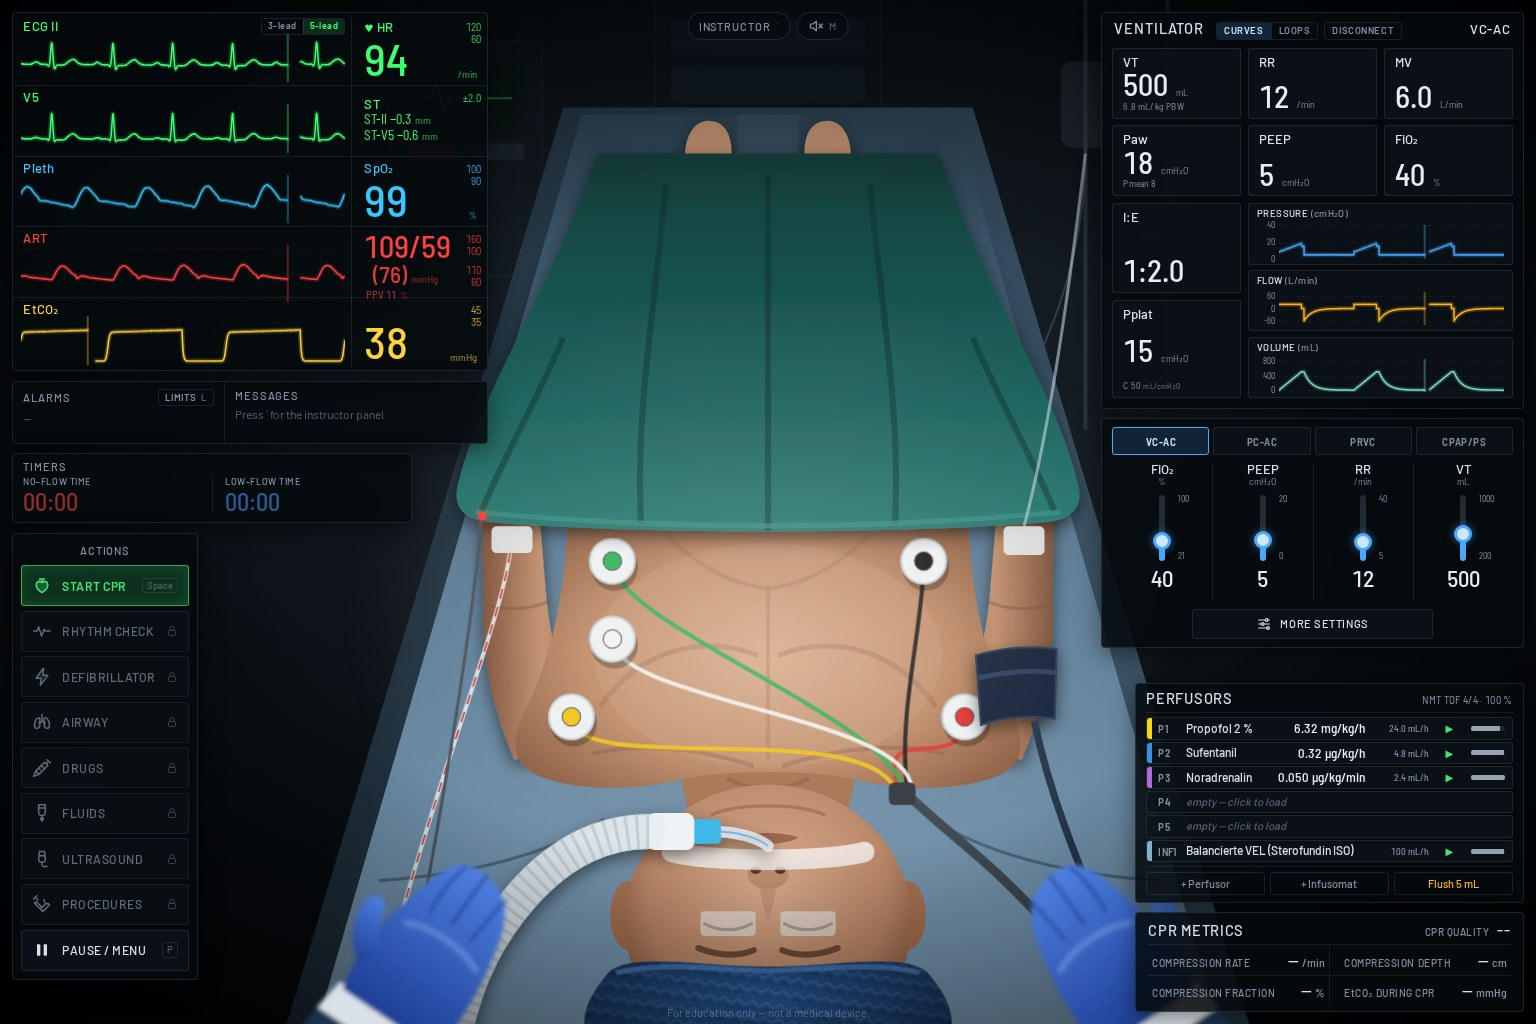
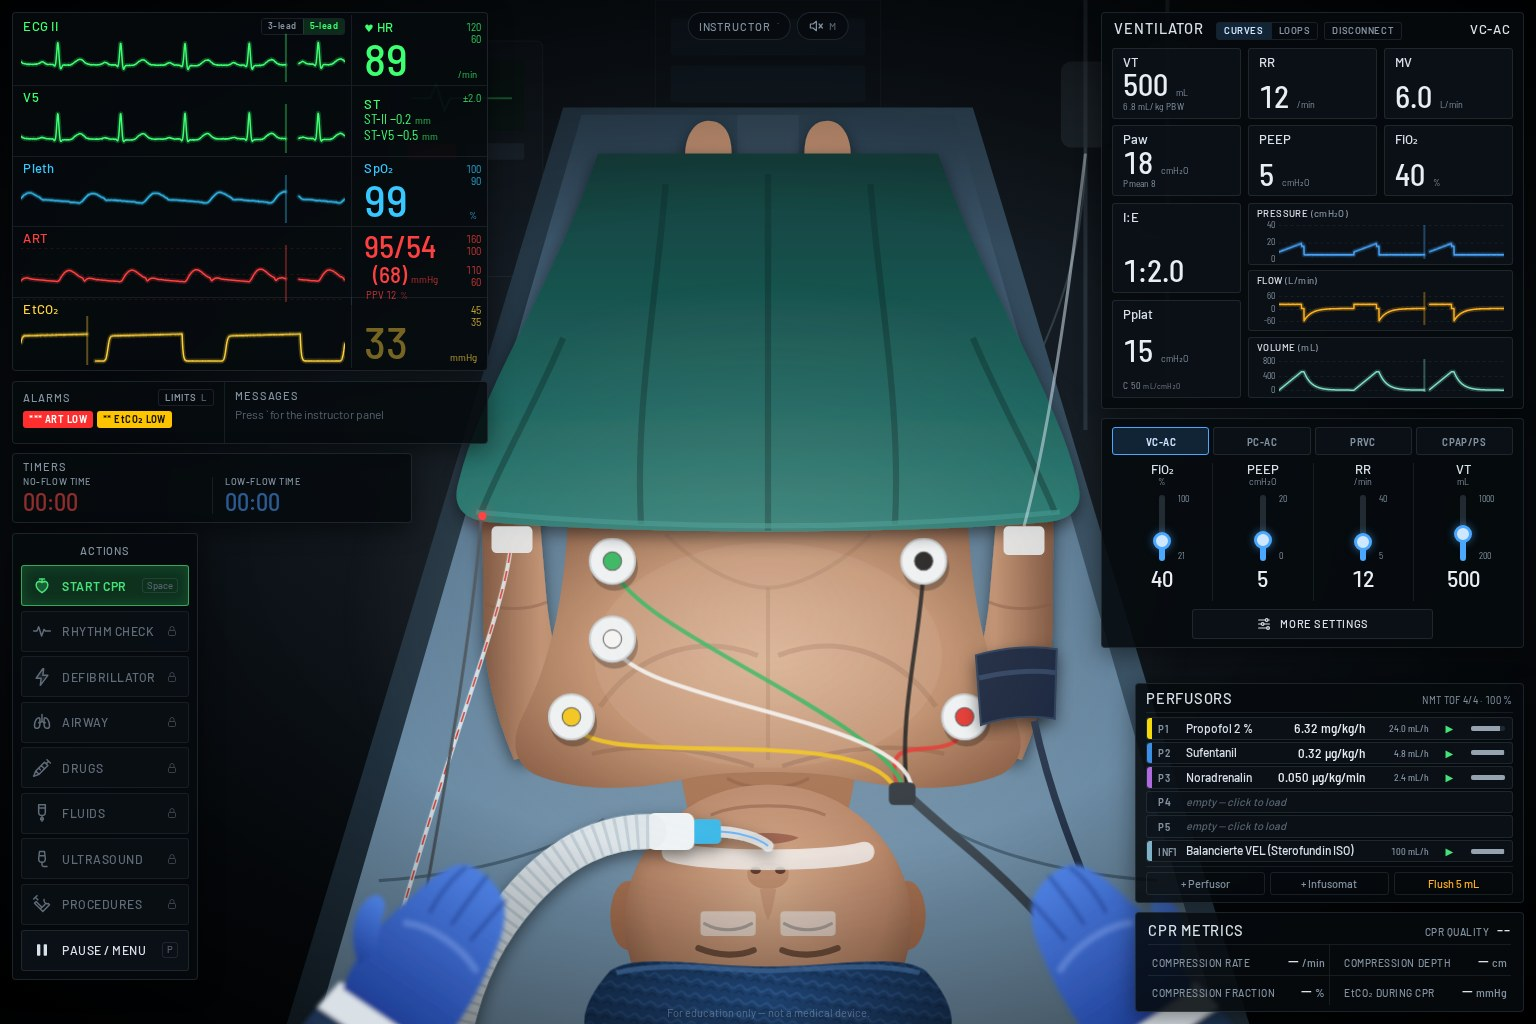
Make propofol boluses act more strongly in hypovolaemia and in the elderly
Age becomes a covariate of the haemodynamic propofol effects and of reflex
compensation, settable live by the instructor (SET_PATIENT_AGE, slider in the
heart-lung panel). Propofol sympatholysis is sigmoidal and suppresses the tonic
volume-reflex outflow more than the phasic baroreflex, its effect is weighted to
venodilation, and the critical closing pressure follows vascular tone. 100 mg
under TIVA now lowers mean ART by ~24 % at 58 y, ~39 % when hypovolaemic and
~45 % at 80 y hypovolaemic (collapse at volume status 0.5 if untreated).

Claude-Session: https://claude.ai/code/session_01VvDhrbZNjq1jLKeWpgn4kZ

diff --git a/src/sim/pharmacology/pd.ts b/src/sim/pharmacology/pd.ts
@@ -15,15 +15,21 @@ export const PD = {
     hypnosisCe50: 3.4,
     hypnosisGamma: 3,
     respCe50: 3,
-    svrMax: 0.9,
+    svrMax: 0.6,
     svrCe50: 8,
-    venousMax: 0.8,
+    venousMax: 1.4,
     venousCe50: 8,
     inotropyMax: 0.3,
     inotropyCe50: 10,
-    baroMax: 0.6,
-    baroCe50: 4,
+    // SIM-ASSUMPTION: sympatholysis is sigmoidal (Ce50 6 µg/mL, γ 3): modest at maintenance concentrations, strong at bolus
+    // peaks — so a patient whose blood pressure depends on sympathetic tone (hypovolaemia) loses it on a bolus.
+    baroMax: 0.95,
+    baroCe50: 6,
+    baroGamma: 3,
   },
+  // SIM-ASSUMPTION: age sensitivity of the haemodynamic propofol effects — Ce50 × (1 − 0.01 · (age − 60)),
+  // limited to 0.6–1.3 (80 y: 0.8, 35 y: 1.25); elderly patients need about a third less propofol.
+  ageSensitivity: { referenceAge: 60, perYear: 0.01, min: 0.6, max: 1.3 },
   // SIM-ASSUMPTION: opioid–hypnotic interaction on hypnosis (response surface, educational):
   // U = Up + 0.4·Uo + 0.5·Up·Uo with Up = Ce/3.4 µg/mL and Uo = sufentanil-equivalent / 1 ng/mL.
   hypnosisInteraction: { opioidWeight: 0.4, synergy: 0.5, opioidC50: 1 },
@@ -95,8 +101,15 @@ interface Haemodynamics {
   baroreflex: number;
 }
 
-function haemodynamics(e: Exposures, opioid: number): Haemodynamics {
-  const p = e.propofol ?? 0;
+/** Ce50 multiplier for the haemodynamic propofol effects at a given age (1 at 60 years). */
+export function propofolAgeFactor(ageYears: number): number {
+  const a = PD.ageSensitivity;
+  return Math.min(a.max, Math.max(a.min, 1 - a.perYear * (ageYears - a.referenceAge)));
+}
+
+function haemodynamics(e: Exposures, opioid: number, ageYears: number): Haemodynamics {
+  // Age-scaled propofol concentration (equivalent to scaling every haemodynamic Ce50).
+  const p = (e.propofol ?? 0) / propofolAgeFactor(ageYears);
   const na = e.noradrenaline ?? 0;
   const ad = e.adrenaline ?? 0;
   const dob = e.dobutamine ?? 0;
@@ -133,7 +146,8 @@ function haemodynamics(e: Exposures, opioid: number): Haemodynamics {
     (1 + emax(ad, A.chronoMax, A.chronoEc50)) *
     (1 + emax(dob, D.chronoMax, D.chronoEc50)) *
     (1 + emax(sal, S.chronoMax, S.chronoEc50));
-  const baroreflex = (1 - emax(p, P.baroMax, P.baroCe50)) * (1 - emax(opioid, 0.2, 0.5));
+  const baroreflex =
+    (1 - P.baroMax * hill(p, P.baroCe50, P.baroGamma)) * (1 - emax(opioid, 0.2, 0.5));
   return { svr, venousTone, inotropy, chronotropy, baroreflex };
 }
 
@@ -151,11 +165,16 @@ export function opioidEffect(e: Exposures, weightKg: number): number {
  * SIM-ASSUMPTION: relative haemodynamics keep the calibrated baseline while stopping or changing an infusion
  * moves the patient away from it.
  */
-export function drugEffects(e: Exposures, reference: Exposures, weightKg: number): DrugEffects {
+export function drugEffects(
+  e: Exposures,
+  reference: Exposures,
+  weightKg: number,
+  ageYears = 60,
+): DrugEffects {
   const opioid = opioidEffect(e, weightKg);
   const opioidRef = opioidEffect(reference, weightKg);
-  const now = haemodynamics(e, opioid);
-  const ref = haemodynamics(reference, opioidRef);
+  const now = haemodynamics(e, opioid, ageYears);
+  const ref = haemodynamics(reference, opioidRef, ageYears);
 
   const P = PD.propofol;
   const hi = PD.hypnosisInteraction;

diff --git a/src/sim/__tests__/pharmacology.test.ts b/src/sim/__tests__/pharmacology.test.ts
@@ -1,5 +1,6 @@
 import { describe, expect, it } from 'vitest';
 import { erc2025 } from '../../content/guidelines/erc2025';
+import { baselinePatient } from '../../content/scenarios';
 import { SimulationEngine } from '../engine/SimulationEngine';
 import { dosingWeight, idealBodyWeight } from '../pharmacology/bodySize';
 import { lineAmount } from '../pharmacology/delivery';
@@ -601,5 +602,44 @@ describe('soft limits, top-up boluses and the haemodynamic response', () => {
     e.runFor(600);
     expect(snap(e).patient.cardio.meanArterialPressure).toBeGreaterThan(0.95 * map0);
     expect(Math.abs(snap(e).devices.monitor.numerics.stII ?? 0)).toBeLessThan(0.15);
+  });
+});
+
+describe('propofol bolus: age and volume status', () => {
+  /** Largest relative fall of the displayed mean ART after 100 mg propofol under TIVA. */
+  const bolusDrop = (ageYears: number, preloadReserve: number) => {
+    const e = new SimulationEngine({
+      scenario: { ...baselinePatient, patient: { ...baselinePatient.patient, ageYears } },
+      guidelines: erc2025,
+    });
+    cmd(e, { type: 'SET_RESERVES', reserves: { preloadReserve } }, 'instructor');
+    e.runFor(180);
+    const before = snap(e).devices.monitor.numerics.artMean ?? 0;
+    cmd(e, { type: 'PUMP_BOLUS', pumpId: 'P1', volumeMl: 5, durationS: 10 });
+    let lowest = before;
+    for (let i = 0; i < 30; i++) {
+      e.runFor(10);
+      lowest = Math.min(lowest, snap(e).devices.monitor.numerics.artMean ?? lowest);
+    }
+    return (before - lowest) / before;
+  };
+
+  it('the same bolus lowers BP much more in hypovolaemia and in the elderly', () => {
+    const young = bolusDrop(35, 1);
+    const hypo = bolusDrop(35, 0.6);
+    const old = bolusDrop(80, 1);
+    const oldHypo = bolusDrop(80, 0.6);
+    expect(young).toBeGreaterThan(0.1);
+    expect(hypo).toBeGreaterThan(young + 0.1);
+    expect(old).toBeGreaterThan(young + 0.05);
+    expect(oldHypo).toBeGreaterThan(Math.max(hypo, old) + 0.08);
+  });
+
+  it('the instructor can change the age; PK and drug sensitivity follow', () => {
+    const e = createEngine();
+    cmd(e, { type: 'SET_PATIENT_AGE', ageYears: 85 }, 'instructor');
+    expect(snap(e).patient.demographics.ageYears).toBe(85);
+    cmd(e, { type: 'SET_PATIENT_AGE', ageYears: 5 }, 'instructor'); // outside 18–100: ignored
+    expect(snap(e).patient.demographics.ageYears).toBe(85);
   });
 });

diff --git a/src/sim/physiology/HeartLungModel.ts b/src/sim/physiology/HeartLungModel.ts
@@ -5,6 +5,14 @@ import { approach, clamp } from './shapes';
 
 /** mL O2/dL — arterial O2 content of the baseline patient (reference for coronary O2 supply) */
 const REFERENCE_CAO2 = 19;
+/**
+ * SIM-ASSUMPTION: reflex sympathetic compensation declines with age (baroreflex sensitivity, β-receptor response):
+ * × (1 − 0.012 · (age − 60)), limited to 0.5–1.25 — 80 y: 0.76, 90 y: 0.64, 35 y: 1.25.
+ */
+export function ageSympatheticFactor(ageYears: number): number {
+  return clamp(1 - 0.012 * (ageYears - 60), 0.5, 1.25);
+}
+
 /** mmHg — MAP below which the arterial baroreflex starts to raise sympathetic tone */
 const BARO_SET_POINT_MMHG = 82;
 /**
@@ -205,12 +213,17 @@ export class HeartLungModel {
     // blood pressure brings a compensatory tachycardia (blunted, not abolished, by the anaesthetic).
     const setPointStress =
       0.6 * clamp((BARO_SET_POINT_MMHG - cardio.meanArterialPressure) / 25, 0, 1);
+    // SIM-ASSUMPTION: the tonic outflow driven by the low-pressure (volume) reflex is suppressed more by
+    // anaesthetics (baroreflex factor squared) than the phasic arterial baroreflex response — the hypovolaemic
+    // patient loses the tone that held the blood pressure, while a normovolaemic patient keeps a reflex tachycardia.
     const stress =
       clamp(
-        hypoxicStress + 0.4 * co2Stress + 0.8 * pressureStress + setPointStress + volumeStress,
+        (hypoxicStress + 0.4 * co2Stress + 0.8 * pressureStress + setPointStress) *
+          drugs.baroreflex +
+          volumeStress * drugs.baroreflex ** 2,
         0,
         1.5,
-      ) * drugs.baroreflex;
+      ) * ageSympatheticFactor(patient.demographics.ageYears);
     const highPressure = clamp((cardio.meanArterialPressure - 105) / 40, 0, 1) * drugs.baroreflex;
     const debtFraction = clamp(
       (hl.oxygenDebt - k.bradycardiaDebtS) / (k.arrestDebtS - k.bradycardiaDebtS),

diff --git a/src/sim/physiology/CardiovascularModel.ts b/src/sim/physiology/CardiovascularModel.ts
@@ -125,7 +125,7 @@ export class CardiovascularModel {
     const toneTarget = cardio.spontaneousCirculation ? 1 : 0;
     const tau = cardio.spontaneousCirculation ? CARDIO.toneRecoveryTauS : CARDIO.toneLossTauS;
     cardio.vascularTone = approach(cardio.vascularTone, toneTarget, dt, tau);
-    cardio.criticalClosingPressure = criticalClosingPressure(cardio.vascularTone);
+    cardio.criticalClosingPressure = criticalClosingPressure(cardio.vascularTone, cardio.svrFactor);
     cardio.cardiacOutput = (this.flowAverage * 60) / 1000;
     cardio.svr = Math.round(CARDIO.peripheralResistance * cardio.svrFactor * 1333);
     cardio.arterialPressure = this.lastArterialPressure;
@@ -137,8 +137,17 @@ export class CardiovascularModel {
   }
 }
 
-export function criticalClosingPressure(tone: number): number {
-  return CARDIO.msfp + clamp(tone, 0, 1) * (CARDIO.pcritWithTone - CARDIO.msfp);
+/**
+ * SIM-ASSUMPTION: the tone-dependent part of the critical closing pressure scales with vasomotor tone (the SVR
+ * factor, 0.5–1.5): vasodilation (propofol, sympatholysis) lowers it, vasoconstriction (noradrenaline, reflex
+ * tone) raises it. Without this a vasodilator could only lower the pressure above a fixed 30 mmHg waterfall.
+ * @param vasomotor relative vascular resistance (1 = baseline)
+ */
+export function criticalClosingPressure(tone: number, vasomotor = 1): number {
+  return (
+    CARDIO.msfp +
+    clamp(tone, 0, 1) * clamp(vasomotor, 0.5, 1.5) * (CARDIO.pcritWithTone - CARDIO.msfp)
+  );
 }
 
 export function compressionDuration(intervalS: number): number {

diff --git a/src/sim/pharmacology/PharmacologyModel.ts b/src/sim/pharmacology/PharmacologyModel.ts
@@ -37,6 +37,11 @@ export class PharmacologyModel {
     return p;
   }
 
+  /** Age/size changed: PK parameters are recomputed (drug amounts in the body stay). */
+  onDemographicsChanged(): void {
+    this.params.clear();
+  }
+
   /** Scenario start: infusions already running are at steady state (patient calibrated under them). */
   reset(patient: PatientState, pumps: PumpState[]): LineState {
     this.params.clear();
@@ -55,7 +60,12 @@ export class PharmacologyModel {
       ph.drugs[m] = steadyState(this.paramsFor(patient, m), input);
     }
     ph.reference = this.exposures(patient);
-    ph.effects = drugEffects(ph.reference, ph.reference, patient.demographics.weightKg);
+    ph.effects = drugEffects(
+      ph.reference,
+      ph.reference,
+      patient.demographics.weightKg,
+      patient.demographics.ageYears,
+    );
     patient.gas.hb = OXYGEN.hemoglobin;
     return steadyStateLine(pumps, getProduct);
   }
@@ -77,7 +87,12 @@ export class PharmacologyModel {
     const w = patient.demographics.weightKg;
     stepFluids(ph.fluids, step.fluids, step.otherMl, getProduct, w, dtS);
     patient.gas.hb = dilutedHb(OXYGEN.hemoglobin, ph.fluids, w);
-    ph.effects = drugEffects(this.exposures(patient), ph.reference, w);
+    ph.effects = drugEffects(
+      this.exposures(patient),
+      ph.reference,
+      w,
+      patient.demographics.ageYears,
+    );
   }
 
   /** Effect-relevant exposure of each moiety (units: see pd.ts). */

diff --git a/src/ui/components/InstructorPanel/HeartLungPanel.tsx b/src/ui/components/InstructorPanel/HeartLungPanel.tsx
@@ -111,6 +111,25 @@ export function HeartLungPanel() {
             ))}
           </div>
 
+          <label className={styles.slider}>
+            <span>{t('hl.age')}</span>
+            <input
+              type="range"
+              min={18}
+              max={100}
+              step={1}
+              value={vm.ageYears}
+              onChange={(e) =>
+                engine.dispatch(
+                  { type: 'SET_PATIENT_AGE', ageYears: Number(e.target.value) },
+                  'instructor',
+                )
+              }
+              data-testid="patient-age"
+            />
+            <span className="num">{vm.ageYears} y</span>
+          </label>
+
           <div className={styles.arrestRow}>
             <span>{t('hl.arrestModel')}</span>
             {[true, false].map((on) => (

diff --git a/src/sim/engine/SimulationEngine.ts b/src/sim/engine/SimulationEngine.ts
@@ -368,6 +368,16 @@ export class SimulationEngine {
       case 'SET_RESERVES':
         s.patient.reserves = { ...s.patient.reserves, ...validReserves(command.reserves) };
         break;
+      case 'SET_PATIENT_AGE':
+        if (
+          Number.isFinite(command.ageYears) &&
+          command.ageYears >= 18 &&
+          command.ageYears <= 100
+        ) {
+          s.patient.demographics.ageYears = Math.round(command.ageYears);
+          this.pharmacology.onDemographicsChanged();
+        }
+        break;
       case 'SET_ARREST_MODEL':
         s.model.arrestModelEnabled = command.enabled;
         break;

diff --git a/src/ui/adapters/heartLungViewModel.ts b/src/ui/adapters/heartLungViewModel.ts
@@ -32,6 +32,8 @@ export interface HeartLungViewModel {
   meters: Meter[];
   cause: I18nKey | null;
   reserves: PhysiologyReserves;
+  /** years */
+  ageYears: number;
   arrestModelEnabled: boolean;
   calibration: CalibrationRow[];
 }
@@ -199,6 +201,7 @@ export function heartLungViewModel(s: Readonly<SimulationState>): HeartLungViewM
     meters,
     cause: hl.arrestCause === null ? null : (`hl.cause.${hl.arrestCause}` as const),
     reserves: { ...s.patient.reserves },
+    ageYears: s.patient.demographics.ageYears,
     arrestModelEnabled: s.model.arrestModelEnabled,
     calibration,
   };

diff --git a/src/sim/types/commands.ts b/src/sim/types/commands.ts
@@ -38,6 +38,8 @@ export type Command =
   | { type: 'SET_RESP_DRIVE'; drive: RespiratoryDrive }
   | { type: 'SET_RHYTHM'; rhythm: RhythmId }
   | { type: 'SET_RESERVES'; reserves: Partial<PhysiologyReserves> }
+  /** years (18–100) — instructor: patient age (PK covariates, age sensitivity of drugs and reflexes) */
+  | { type: 'SET_PATIENT_AGE'; ageYears: number }
   | { type: 'SET_ARREST_MODEL'; enabled: boolean }
   | { type: 'SET_ECG_LEADS'; leads: EcgLeadSet }
   | { type: 'SET_ALARM_LIMIT'; param: AlarmLimitParam; bound: AlarmLimitBound; value: number }

diff --git a/src/content/i18n/de.ts b/src/content/i18n/de.ts
@@ -187,6 +187,7 @@ export const de: Record<I18nKey, string> = {
     'Wie die Beatmung auf den Kreislauf wirkt — Modellwerte live (wahr, nicht gemessen)',
   'hl.reserves': 'Reserven des Patienten',
   'hl.preloadReserve': 'Volumenstatus',
+  'hl.age': 'Alter',
   'hl.rightVentricularReserve': 'RV-Reserve',
   'hl.cardiacReserve': 'Myokardreserve',
   'hl.sympatheticResponse': 'Sympathikusantwort',

diff --git a/src/content/i18n/en.ts b/src/content/i18n/en.ts
@@ -184,6 +184,7 @@ export const en = {
   'hl.subtitle': 'How ventilation acts on the circulation — live model values (true, not measured)',
   'hl.reserves': 'Patient reserves',
   'hl.preloadReserve': 'Volume status',
+  'hl.age': 'Age',
   'hl.rightVentricularReserve': 'RV reserve',
   'hl.cardiacReserve': 'Myocardial reserve',
   'hl.sympatheticResponse': 'Sympathetic response',

diff --git a/docs/SIMULATION_ASSUMPTIONS.md b/docs/SIMULATION_ASSUMPTIONS.md
@@ -219,11 +219,15 @@ All compartments integrate with RK4 in the 4 ms physiology sub-step.
 | Respiratory drive | Greco-type surface: drive = 1 / (1 + (Uo + Up + Uo·Up)²), opioid C50 0.3 ng/mL, propofol 3 µg/mL; slows the rate (factor^0.7) more than it weakens each effort (factor^0.3) |
 | Naloxone | competitive antagonist, K = 0.5 µg/kg of effect-delayed naloxone; shorter-acting than long opioids (re-narcotisation) |
 | Neuromuscular block | Hill on Ce(rocuronium), Ce50 1.0 µg/mL, γ 4.5; diaphragm needs 1.7× the concentration; TOF count loses T4/T3/T2/T1 above 75/80/85/95 % block, ratio (1 − block)^2.2 |
-| Haemodynamics | propofol (Ce50 8 µg/mL, above the maintenance range so a top-up bolus still acts): SVR −90 % max, venous tone −0.8 volume-status units max, inotropy −30 % max (Ce50 10), sympathetic reflexes −60 % max (Ce50 4); opioids: bradycardia, small vasodilation, reflexes −20 %; noradrenaline SVR +120 % max; adrenaline β1/β2/α; dobutamine inotropy; vasopressin SVR |
+| Haemodynamics | propofol (Ce50 8 µg/mL, above the maintenance range so a top-up bolus still acts): SVR −60 % max, venous tone −1.4 volume-status units max (venodilation dominates, so preload-dependent patients fall most), inotropy −30 % max (Ce50 10), sympatholysis sigmoidal −95 % max (Ce50 6, γ 3: modest at maintenance, strong at bolus peaks); age: all haemodynamic Ce50s × (1 − 0.01·(age − 60)), 0.6–1.3; opioids: bradycardia, small vasodilation, reflexes −20 %; noradrenaline SVR +120 % max; adrenaline β1/β2/α; dobutamine inotropy; vasopressin SVR |
 | Calibration | haemodynamic effects are **relative to the exposures at scenario start** (the baseline patient is calibrated under the running TIVA); hypnosis, analgesia, drive and block are absolute |
 | Bronchodilation | salbutamol removes up to the bronchospasm preset's *excess* resistance only |
 | Lactate | β2 agonists (adrenaline, salbutamol) add aerobic lactate production without an O₂-delivery deficit |
 | Arterial baroreflex around the set point (`HeartLungModel.ts`) | below MAP 82 mmHg sympathetic tone rises linearly (0.6 at MAP 57), on top of the stronger term below MAP 65; blunted, not abolished, by anaesthetics. A propofol top-up of 100 mg (≈ 1.3 mg/kg) under TIVA gives ≈ −15 % MAP with HR +15/min, recovering within ≈ 10 min |
+| Age and reflexes (`HeartLungModel.ts`) | reflex sympathetic compensation × (1 − 0.012·(age − 60)), 0.5–1.25 (80 y: 0.76) |
+| Tonic (volume-reflex) sympathetic outflow | blunted by the anaesthetic baroreflex factor **squared**, the phasic baroreflex only linearly: the hypovolaemic patient loses the tone that held the pressure, a normovolaemic patient keeps a reflex tachycardia |
+| Critical closing pressure (`CardiovascularModel.ts`) | its tone-dependent part (12 → 30 mmHg) scales with the SVR factor (0.5–1.5): vasodilators lower the waterfall, vasoconstrictors raise it |
+| Propofol 100 mg top-up under TIVA (calibration check, unit-tested) | fall of mean ART: 35 y ≈ 20 %, 58 y ≈ 24 %, 80 y ≈ 29 %; at volume status 0.6: 35 y ≈ 34 %, 58 y ≈ 39 %, 80 y ≈ 45 % (MAP ≈ 42, pleth lost, recovers); at 0.5 and 80 y: circulatory collapse → PEA if untreated |
 | Rate-related ST change (`myocardialIschaemia`) | ST depression ∝ min(0.2, 1 − supply/demand) even while the coronary reserve covers demand: ≤ 0.3 mm in II and ≤ 0.6 mm in V5 (tachycardia + hypotension); larger changes need a reduced coronary reserve |
 | Low-pressure reflex (`HeartLungModel.ts`) | a preload deficit adds sympathetic tone: 0.6 at volume status 0.5, linear to 0 at 1.0; blunted by anaesthetics like the baroreflex — so a hypovolaemic patient is compensated awake and decompensates on induction |
 
